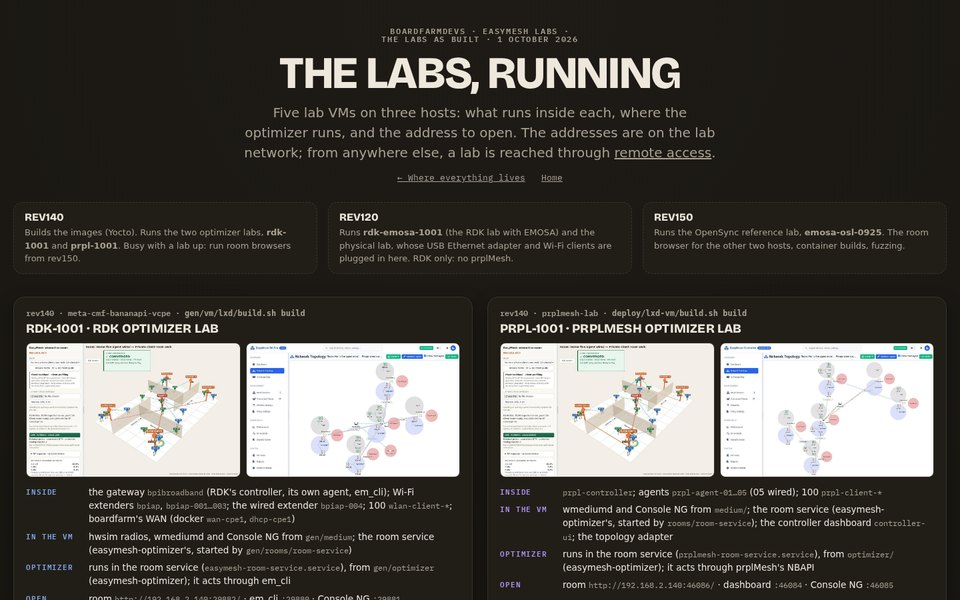
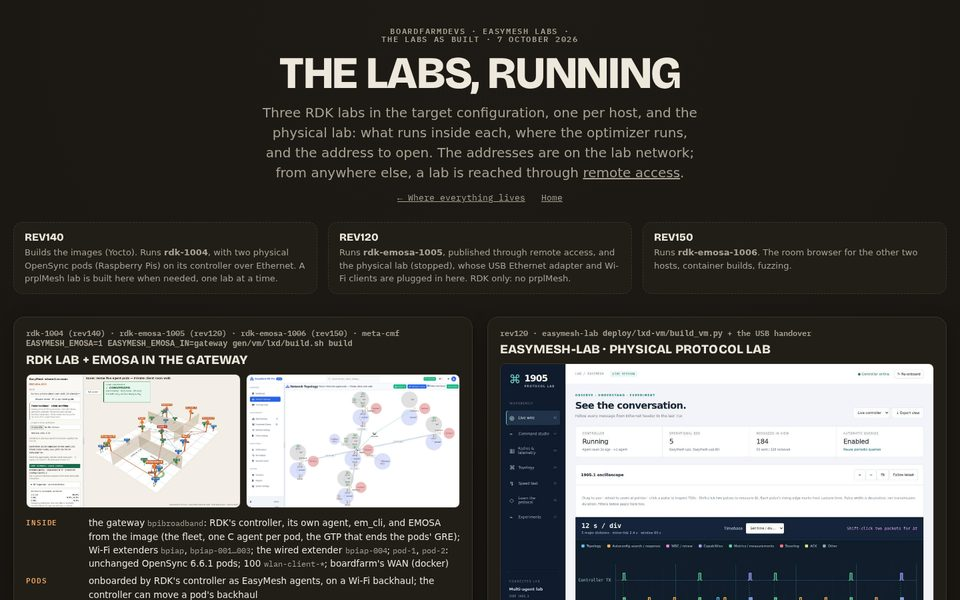
Labs poster: the labs running on 7 October (the three RDK labs with EMOSA in the gateway, the physical lab stopped), its thumbnails again; the retired VMs' cards and their images, and the unused card images, removed

Changed region(s): [[0.0, 0.51, 1.0, 1.0], [0.25, 0.18, 0.9688, 0.48], [0.0, 0.33, 0.3125, 0.48]]

diff --git a/site/posters/labs.html b/site/posters/labs.html
@@ -7,7 +7,7 @@
 <link rel="icon" href="../favicon.ico" sizes="48x48">
 <link rel="icon" href="../favicon.svg" type="image/svg+xml">
 <link rel="apple-touch-icon" href="../apple-touch-icon.png">
-<meta name="description" content="The EasyMesh lab VMs as built on 1 October 2026: what runs inside each, where the optimizer runs, and how to open them.">
+<meta name="description" content="The EasyMesh lab VMs as they run on 7 October 2026: what runs inside each, where the optimizer runs, and how to open them.">
 <link rel="preconnect" href="https://fonts.googleapis.com">
 <link rel="stylesheet" href="https://fonts.googleapis.com/css2?family=Bricolage+Grotesque:opsz,wght@12..96,600;12..96,800&family=IBM+Plex+Mono:wght@400;500;600;700&display=swap">
 <link rel="stylesheet" href="posters.css">
@@ -15,72 +15,35 @@
 <body>
 <main class="poster">
   <header class="masthead">
-    <p class="eyebrow">boardfarmdevs · EasyMesh labs · the labs as built · 1 October 2026</p>
+    <p class="eyebrow">boardfarmdevs · EasyMesh labs · the labs as built · 7 October 2026</p>
     <h1>The labs, running</h1>
-    <p>Five lab VMs on three hosts: what runs inside each, where the optimizer runs, and the
-    address to open. The addresses are on the lab network; from anywhere else, a lab is reached
-    through <a href="https://vcpe.dev/easymesh-remote/">remote access</a>.</p>
+    <p>Three RDK labs in the target configuration, one per host, and the physical lab: what
+    runs inside each, where the optimizer runs, and the address to open. The addresses are on
+    the lab network; from anywhere else, a lab is reached through
+    <a href="https://vcpe.dev/easymesh-remote/">remote access</a>.</p>
     <nav><a href="map.html">← Where everything lives</a> <a href="../index.html">Home</a></nav>
   </header>
 
   <section class="hosts" aria-label="Hosts">
-    <div class="host"><h3>rev140</h3><p>Builds the images (Yocto). Runs the two optimizer labs, <b>rdk-1002b</b> and <b>prpl-1002</b>, one at a time. Busy with a lab up: run room browsers from rev150, and other builds at low priority.</p></div>
-    <div class="host"><h3>rev120</h3><p>Runs <b>rdk-emosa-1002</b> (the RDK lab with EMOSA) and the physical lab, whose USB Ethernet adapter and Wi-Fi clients are plugged in here. RDK only: no prplMesh.</p></div>
-    <div class="host"><h3>rev150</h3><p>Runs the OpenSync reference lab, <b>emosa-osl-1002</b>. The room browser for the other two hosts, container builds, fuzzing.</p></div>
+    <div class="host"><h3>rev140</h3><p>Builds the images (Yocto). Runs <b>rdk-1004</b>, with two physical OpenSync pods (Raspberry Pis) on its controller over Ethernet. A prplMesh lab is built here when needed, one lab at a time.</p></div>
+    <div class="host"><h3>rev120</h3><p>Runs <b>rdk-emosa-1005</b>, published through remote access, and the physical lab (stopped), whose USB Ethernet adapter and Wi-Fi clients are plugged in here. RDK only: no prplMesh.</p></div>
+    <div class="host"><h3>rev150</h3><p>Runs <b>rdk-emosa-1006</b>. The room browser for the other two hosts, container builds, fuzzing.</p></div>
   </section>
 
   <section class="labs">
-    <article class="card lab rdk" id="rdk">
-      <p class="where">rev140 · meta-cmf-bananapi-vcpe · <code>gen/vm/lxd/build.sh build</code></p>
-      <h2>rdk-1002b · RDK optimizer lab</h2>
-      <div class="shots"><img src="img/rdk-room.jpg" width="1200" height="750" alt="The RDK lab's live room, converged: twenty clients around the gateway, four Wi-Fi extenders and the wired extender" loading="lazy"><img src="img/rdk-topology.jpg" width="1200" height="750" alt="em_cli, the RDK controller's web UI, drawing the network topology: the controller, Agent-1, five extenders and the clients on their private and IoT networks" loading="lazy"></div>
-      <dl>
-        <dt>Inside</dt><dd>the gateway <code>bpibroadband</code> (RDK's controller, its own agent, em_cli); Wi-Fi extenders <code>bpiap</code>, <code>bpiap-001…003</code>; the wired extender <code>bpiap-004</code>; 100 <code>wlan-client-*</code>; boardfarm's WAN (docker <code>wan-cpe1</code>, <code>dhcp-cpe1</code>)</dd>
-        <dt>In the VM</dt><dd>hwsim radios, wmediumd and Console NG from <code>gen/medium</code>; the room service (easymesh-optimizer's, started by <code>gen/rooms/room-service</code>)</dd>
-        <dt>Optimizer</dt><dd>runs in the room service (<code>easymesh-room-service.service</code>), from <code>gen/optimizer</code> (easymesh-optimizer); it acts through em_cli</dd>
-        <dt>Open</dt><dd>room <code>http://192.168.2.140:29302/</code> · em_cli <code>:29300</code> · Console NG <code>:29301</code></dd>
-      </dl>
-      <span class="pill">Optimizer lab · RDK</span>
-    </article>
-
-    <article class="card lab prpl" id="prpl">
-      <p class="where">rev140 · prplmesh-lab · <code>deploy/lxd-vm/build.sh build</code></p>
-      <h2>prpl-1002 · prplMesh optimizer lab</h2>
-      <div class="shots"><img src="img/prpl-room.jpg" width="1200" height="750" alt="The prplMesh lab's live room, converged: twenty clients around the controller and five agents" loading="lazy"><img src="img/prpl-controller.jpg" width="1200" height="750" alt="The prplMesh controller dashboard drawing the topology, following the room's layout" loading="lazy"></div>
-      <dl>
-        <dt>Inside</dt><dd><code>prpl-controller</code>; agents <code>prpl-agent-01…05</code> (05 wired); 100 <code>prpl-client-*</code></dd>
-        <dt>In the VM</dt><dd>wmediumd and Console NG from <code>medium/</code>; the room service (easymesh-optimizer's, started by <code>rooms/room-service</code>); the controller dashboard <code>controller-ui</code>; the topology adapter</dd>
-        <dt>Optimizer</dt><dd>runs in the room service (<code>prplmesh-room-service.service</code>), from <code>optimizer/</code> (easymesh-optimizer); it acts through prplMesh's NBAPI</dd>
-        <dt>Open</dt><dd>room <code>http://192.168.2.140:48582/</code> · dashboard <code>:48580</code> · Console NG <code>:48581</code></dd>
-      </dl>
-      <span class="pill">Optimizer lab · prplMesh</span>
-    </article>
-
     <article class="card lab emosa">
-      <p class="where">rev120 · meta-cmf <code>EASYMESH_EMOSA=1 gen/vm/lxd/build.sh build</code> + emosa-lab <code>deploy/rdk-lab/lab.sh up</code></p>
-      <h2>rdk-emosa-1002 · RDK lab + EMOSA</h2>
-      <div class="shots"><img src="img/emosa-room.jpg" width="1200" height="750" alt="The RDK lab's live room with Pod-1 and Pod-2 among the native extenders, converged" loading="lazy"><img src="img/emosa-topology.jpg" width="1200" height="750" alt="em_cli's topology with the two OpenSync pods drawn as pods next to the native extenders" loading="lazy"></div>
+      <p class="where">rdk-1004 (rev140) · rdk-emosa-1005 (rev120) · rdk-emosa-1006 (rev150) · meta-cmf <code>EASYMESH_EMOSA=1 EASYMESH_EMOSA_IN=gateway gen/vm/lxd/build.sh build</code></p>
+      <h2>RDK lab + EMOSA in the gateway</h2>
+      <div class="shots"><img src="img/emosa-room.jpg" width="1200" height="750" alt="The RDK lab's live room with Pod-1 and Pod-2 among the native extenders, converged" loading="lazy"><img src="img/rdk-emosa-topology.jpg" width="1600" height="1000" alt="em_cli's topology with the two OpenSync pods drawn as pods next to the native extenders" loading="lazy"></div>
       <dl>
-        <dt>Inside</dt><dd>everything in rdk-1002b, plus <code>emosa</code> (the fleet, one agent per pod in Python or C, the MQTT broker), <code>em-gtp</code> (the pods' onboarding network) and <code>pod-1</code>, <code>pod-2</code>: unchanged OpenSync 6.6.1 pods</dd>
+        <dt>Inside</dt><dd>the gateway <code>bpibroadband</code>: RDK's controller, its own agent, em_cli, and EMOSA from the image (the fleet, one C agent per pod, the GTP that ends the pods' GRE); Wi-Fi extenders <code>bpiap</code>, <code>bpiap-001…003</code>; the wired extender <code>bpiap-004</code>; <code>pod-1</code>, <code>pod-2</code>: unchanged OpenSync 6.6.1 pods; 100 <code>wlan-client-*</code>; boardfarm's WAN (docker)</dd>
         <dt>Pods</dt><dd>onboarded by RDK's controller as EasyMesh agents, on a Wi-Fi backhaul; the controller can move a pod's backhaul</dd>
-        <dt>Optimizer</dt><dd>the RDK lab's, in the room service; it steers clients on the pods too</dd>
-        <dt>Open</dt><dd>room <code>http://192.168.2.120:20112/</code> · em_cli <code>:20110</code> · Console NG <code>:20111</code></dd>
-        <dt>Drawn</dt><dd><a href="rdk-emosa.html">OpenSync pods inside RDK EasyMesh</a>: the target configuration, EMOSA in the gateway</dd>
+        <dt>In the VM</dt><dd>hwsim radios, wmediumd and Console NG from <code>gen/medium</code>; the room service (easymesh-optimizer's, started by <code>gen/rooms/room-service</code>)</dd>
+        <dt>Optimizer</dt><dd>runs in the room service, from <code>gen/optimizer</code> (easymesh-optimizer); it acts through em_cli and steers clients on the pods too</dd>
+        <dt>Open</dt><dd>rdk-1004: room <code>http://192.168.2.140:29612/</code> · em_cli <code>:29610</code><br>rdk-emosa-1005: room <code>http://192.168.2.120:22012/</code> · em_cli <code>:22010</code><br>rdk-emosa-1006: room <code>http://192.168.2.150:28102/</code> · em_cli <code>:28100</code></dd>
+        <dt>Drawn</dt><dd><a href="rdk-emosa.html">OpenSync pods inside RDK EasyMesh</a>: the target configuration, kept up to date with rdk-1004</dd>
       </dl>
       <span class="pill">The end goal, on RDK</span>
-    </article>
-
-    <article class="card lab osl">
-      <p class="where">rev150 · opensync-lab <code>setup-vm.sh · deploy-mvx.sh</code> + emosa-lab <code>deploy/opensync-lab/lab.sh</code></p>
-      <h2>emosa-osl-1002 · OpenSync + EMOSA</h2>
-      <div class="shots"><img src="img/osl-controller.jpg" width="1200" height="750" alt="The prplMesh controller's topology in the reference lab: three OpenSync pods as extenders under the controller, each with two clients" loading="lazy"><img src="img/osl-local-noc.jpg" width="1200" height="750" alt="local-noc, the lab's own OpenSync cloud, showing the mv3 router" loading="lazy"></div>
-      <dl>
-        <dt>Inside</dt><dd>the <code>mv3</code> router; <code>pod-1…3</code> with two clients each; <code>local-noc</code> (their cloud, docker); <code>em-ctl</code> (a prplMesh controller); <code>emosa</code>; <code>em-gtp</code>; clients <code>em-wc1…6</code>; boardfarm's WAN</dd>
-        <dt>Purpose</dt><dd>EMOSA's reference lab: several pods, the 900-second fault workload, the pods' Wi-Fi backhaul</dd>
-        <dt>Optimizer</dt><dd>none: EMOSA and the pods are the subject here</dd>
-        <dt>Open</dt><dd>controller <code>http://192.168.2.150:8660/</code> · local-noc <code>:8640</code></dd>
-      </dl>
-      <span class="pill">EMOSA's reference</span>
     </article>
 
     <article class="card lab phys">
@@ -90,7 +53,7 @@
       <dl>
         <dt>Inside</dt><dd>the Python controller and panel in the VM; a USB Ethernet adapter to a TP-Link RE653BE (the primary agent); a second extender on a Wi-Fi backhaul; managed USB Wi-Fi 7 clients; phones, tablets, laptops</dd>
         <dt>Optimizer</dt><dd>its own, small: <code>optimizer.py</code></dd>
-        <dt>Open</dt><dd>panel <code>http://192.168.2.120:8765/</code> · speed test <code>:8766</code> (from rev120's own address)</dd>
+        <dt>Open</dt><dd>stopped; when started: panel <code>http://192.168.2.120:8765/</code> · speed test <code>:8766</code> (from rev120's own address)</dd>
       </dl>
       <span class="pill">Real hardware</span>
     </article>
@@ -98,10 +61,10 @@
     <article class="card lab medium">
       <p class="where">in every lab VM · easymesh-medium <code>observer/</code></p>
       <h2>Console NG · the medium, live</h2>
-      <div class="shots one"><img src="img/rdk-console.jpg" width="1200" height="750" alt="Console NG: the radios of the RDK lab in 3D and the table of maintained radios and directed paths" loading="lazy"></div>
+      <div class="shots one"><img src="img/rdk-emosa-console.jpg" width="1600" height="1000" alt="Console NG: the radios of the RDK lab in 3D and the table of maintained radios and directed paths" loading="lazy"></div>
       <dl>
         <dt>Shows</dt><dd>every radio and directed path of the medium, frames, drops, SNR and airtime, read-only</dd>
-        <dt>Open</dt><dd>its port in each lab: <code>29881</code> (RDK), <code>46085</code> (prplMesh), <code>21201</code> (RDK + EMOSA)</dd>
+        <dt>Open</dt><dd>its port in each lab: <code>29611</code> (rdk-1004), <code>22011</code> (rdk-emosa-1005), <code>28101</code> (rdk-emosa-1006)</dd>
       </dl>
       <span class="pill">Core 1 at work</span>
     </article>
@@ -111,7 +74,7 @@
     <div class="panel">
       <h3>Inside an optimizer lab</h3>
       <div class="nest">
-        <p class="label">a host (rev140, rev120)</p>
+        <p class="label">a host (rev140, rev120, rev150)</p>
         <div class="vm">
           <p class="label">one LXD VM: its own kernel, radios and medium</p>
           <div class="vm-grid">
@@ -124,10 +87,10 @@
           <div class="containers">
             <p class="label">nested LXD containers, each with its own radios</p>
             <div class="vm-grid">
-              <div class="box rdk"><b>Gateway</b>controller, its agent, the controller's web UI</div>
+              <div class="box rdk"><b>Gateway</b>controller, its agent, the controller's web UI, EMOSA</div>
               <div class="box rdk"><b>Extenders</b>4 on Wi-Fi backhaul, 1 wired</div>
               <div class="box prpl"><b>100 clients</b>wpa_supplicant, one radio each</div>
-              <div class="box emosa"><b>With EMOSA</b><code>emosa</code>, <code>em-gtp</code>, two OpenSync pods</div>
+              <div class="box emosa"><b>OpenSync pods</b>two, onboarded through the gateway's EMOSA</div>
             </div>
           </div>
         </div>
@@ -162,9 +125,9 @@
   </section>
 
   <aside class="banner">
-    <h3>Built from scratch</h3>
-    <p>Every lab above was built from its repository's main on 2 October; the labs they replaced
-    are deleted. The current set and how to rebuild each is in
+    <h3>The other configurations</h3>
+    <p>The RDK optimizer lab without EMOSA, the prplMesh lab and the OpenSync reference lab
+    are built when needed; none runs now. Every configuration and how to build it is in
     <a href="https://github.com/boardfarmdevs/easymesh-labs/blob/main/docs/reference/lab-configurations.md">the lab configurations</a>.</p>
   </aside>
   <p class="foot">Kept in easymesh-labs <code>site/posters/</code>: update it when a lab is rebuilt.</p>
